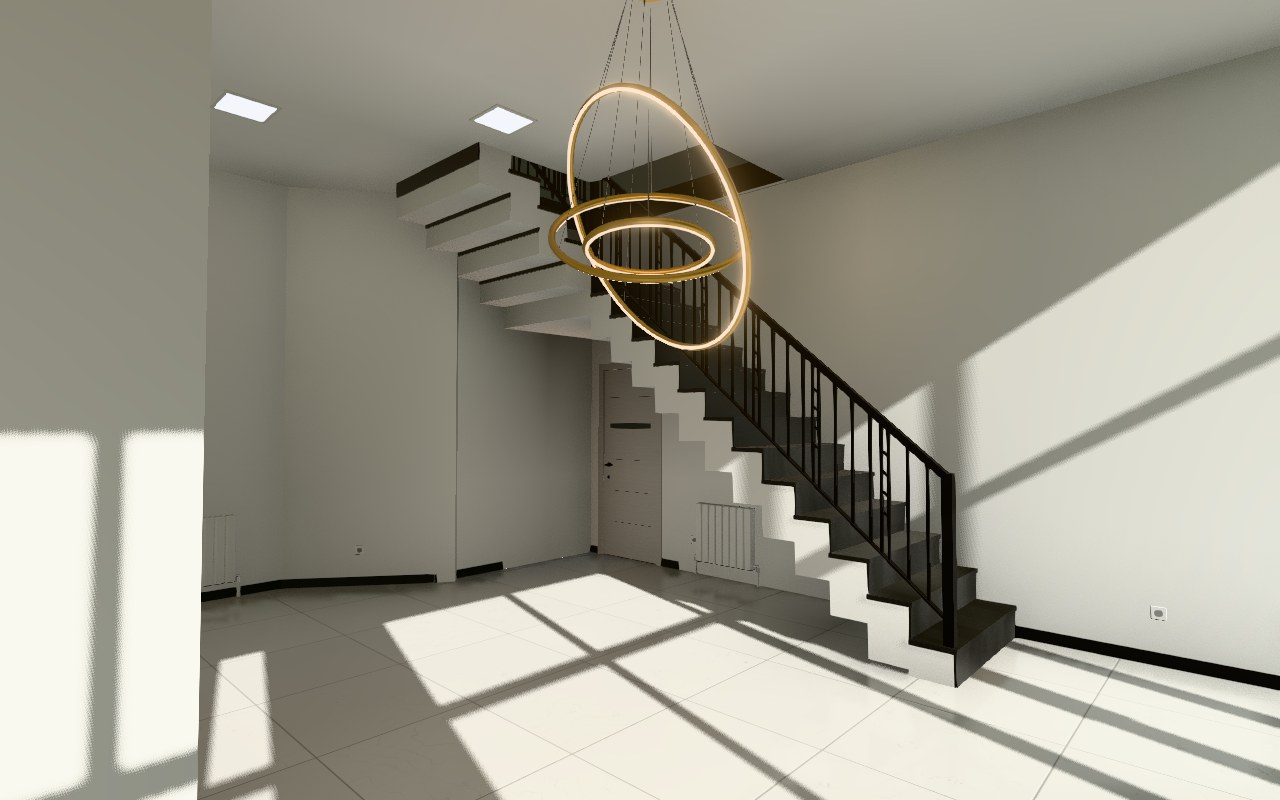
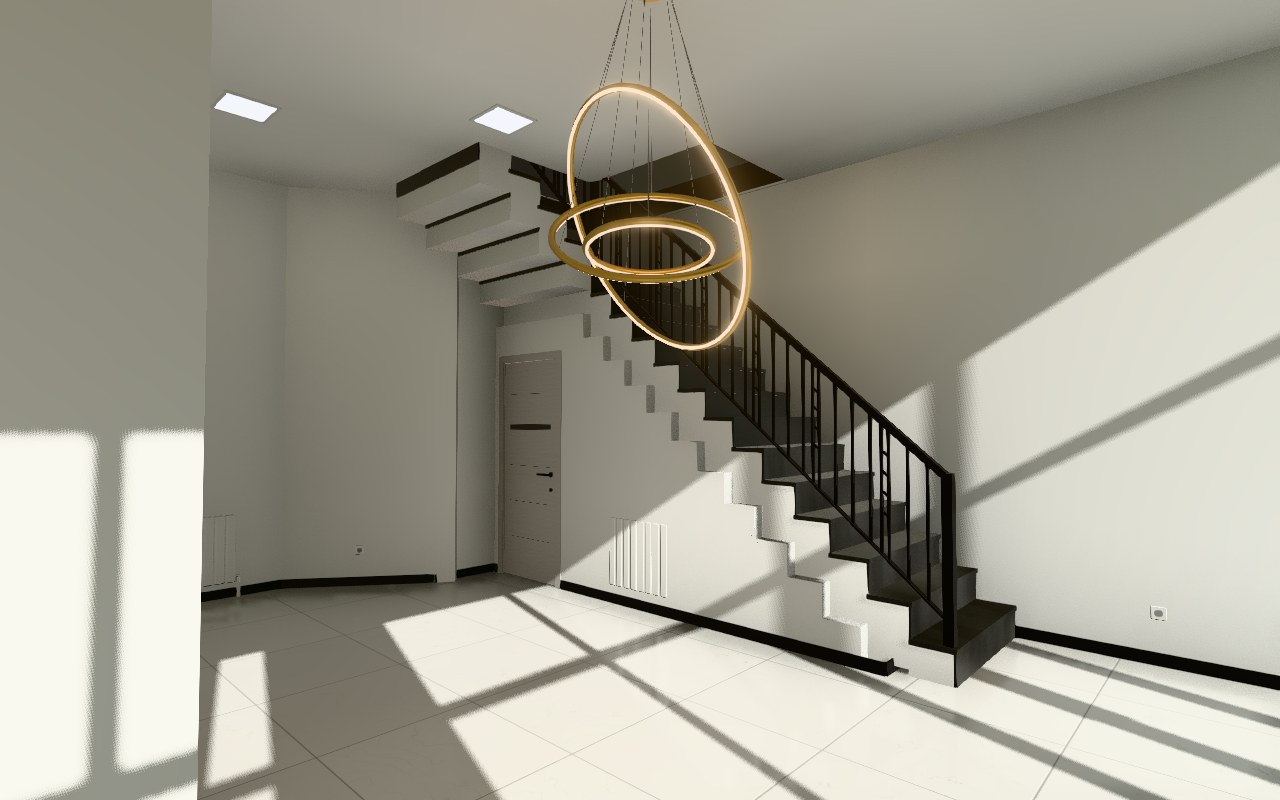
Kladovka zina tagida (bino ichida), 2-qavatda zina shaxtasi devori, eshiksiz kichik xona
- 1-qavat to'rtburchak: tashqariga chiqqan xona olib tashlandi
- Kladovka zinaning eni bo'yicha, old devori zinapoyasimon, eshik burchakda maydoncha ostida
- 2-qavat: zinaning narigi tomoni devor; zina yonida eshiksiz kichik xona

Claude-Session: https://claude.ai/code/session_01P9pQftsdzTnGheRvDppN9w

diff --git a/web/src/stair.js b/web/src/stair.js
@@ -103,16 +103,7 @@ function buildRailings( mats ) {
 	b.add( M, box( xw - 0.03, xw + 0.03, y0, y0 + HR + 0.03, zn - 0.03, zn + 0.03 ) );
 	for ( let x = xw + 0.6; x < xr; x += 0.6 ) b.add( M, box( x - 0.01, x + 0.01, y0, y0 + BR, zn - 0.01, zn + 0.01 ) );
 	panelPattern( b, M, xw + 0.06, xr - 0.06, () => y0 + BR, () => y0 + HR, ( x, a, c ) => [ V( x, a, zn ), V( x, c, zn ) ] );
-	// g'arbiy uch
-	b.add( M, box( xw - 0.0225, xw + 0.0225, y0 + HR - 0.0225, y0 + HR + 0.0225, zn, z1 ) );
-	b.add( M, box( xw - 0.02, xw + 0.02, y0 + BR - 0.006, y0 + BR + 0.006, zn, z1 ) );
-	panelPattern( b, M, zn + 0.06, z1 - 0.04, () => y0 + BR, () => y0 + HR, ( z, a, c ) => [ V( xw, a, z ), V( xw, c, z ) ] );
-	// sharqiy qirra (teshik bo'ylab, 2-qavat zalidan)
-	b.add( M, box( xe - 0.0225, xe + 0.0225, y0 + HR - 0.0225, y0 + HR + 0.0225, zTop - 0.0225, z1 ) );
-	b.add( M, box( xe - 0.02, xe + 0.02, y0 + BR - 0.006, y0 + BR + 0.006, zTop, z1 ) );
-	b.add( M, box( xe - 0.03, xe + 0.03, y0, y0 + HR + 0.03, zTop - 0.03, zTop + 0.03 ) );
-	for ( let z = zTop + 0.6; z < z1; z += 0.6 ) b.add( M, box( xe - 0.01, xe + 0.01, y0, y0 + BR, z - 0.01, z + 0.01 ) );
-	panelPattern( b, M, zTop + 0.06, z1 - 0.04, () => y0 + BR, () => y0 + HR, ( z, a, c ) => [ V( xe, a, z ), V( xe, c, z ) ] );
+	// g'arbiy uch — kichik xona devori, sharqiy qirra — zina shaxtasi devori (floor2.js)
 
 	return b.build( { name: 'railing' } );
 
@@ -151,39 +142,57 @@ function panelPattern( b, M, s0, s1, yLo, yHi, pts ) {
 
 }
 
-// Janubiy devordagi eshik (maydoncha ostida) va uning orqasidagi kichik xona
+// Zina tagidagi kladovka: old devori zina chetida (z0), yuqori qirrasi zinapoyasimon ostga mos;
+// eshik burchakda — maydoncha ostida (rasm 15).
 function buildCloset( mats ) {
 
 	const { x0, x1, z0, z1, t, door } = WC;
+	const { x0: sx0, xL, risersA, rise: r, goingA: gA, hLanding } = STAIR;
+	const SL = 0.18;
 	const b = new Batch();
-	b.add( mats.wall, box( x0 - t, x1 + 0.3, 0, FF - 0.01, z1, z1 + 0.3 ) );
-	b.add( mats.wall, box( x1, x1 + 0.3, 0, FF - 0.01, z0 + 0.3, z1 ) );
-	b.add( mats.wall, box( x0 - t, x0, 0, FF - 0.01, z0 + 0.3, z1 ) );
-	b.add( mats.ceiling, box( x0, x1, H, H + 0.05, z0 + 0.3, z1 ) );
-	b.add( mats.skirting, box( x0, x1, 0, 0.08, z1 - 0.012, z1 ) );
-	b.add( mats.skirting, box( x1 - 0.012, x1, 0, 0.08, z0 + 0.3, z1 ) );
-	b.add( mats.skirting, box( x0, x0 + 0.012, 0, 0.08, z0 + 0.3, z1 ) );
-	b.add( mats.skirting, box( x0, door.x0 - 0.07, 0, 0.08, z0 + 0.3, z0 + 0.312 ) );
-	b.add( mats.skirting, box( door.x1 + 0.07, x1, 0, 0.08, z0 + 0.3, z0 + 0.312 ) );
-	b.add( mats.ledCool, new THREE.PlaneGeometry( 0.3, 0.3 ).rotateX( Math.PI / 2 ).translate( ( x0 + x1 ) / 2, H - 0.003, ( z0 + z1 ) / 2 + 0.15 ) );
+	const landBot = hLanding - SL - r;
 
-	// ---------- Eshik (kulrang eman, qora shisha chiziq) — xonaga qaragan yuza z0 da ----------
-	const dz = z0;
+	// Old devor (z0…z0+t): pastdan zinapoya ostigacha
+	const pts = [ [ x0, 0 ], [ door.x0, 0 ], [ door.x0, door.h ], [ door.x1, door.h ], [ door.x1, 0 ], [ x1, 0 ], [ x1, landBot ], [ xL, landBot ] ];
+	for ( let i = risersA - 2; i >= 0; i -- ) {
+
+		const xw = sx0 + i * gA, xe = xw + gA;
+		if ( xe <= x0 ) break;
+		const y = Math.max( 0, i * r - SL );
+		pts.push( [ Math.min( xe, xL ), y ] );
+		pts.push( [ Math.max( xw, x0 ), y ] );
+
+	}
+
+	const shape = new THREE.Shape( pts.map( ( [ x, y ] ) => new THREE.Vector2( x, y ) ) );
+	const eg = new THREE.ExtrudeGeometry( shape, { depth: t, bevelEnabled: false } );
+	eg.translate( 0, 0, z0 - t );
+	b.add( mats.wall, eg );
+	// G'arbiy yon devor (past)
+	const iw = Math.floor( ( x0 - sx0 ) / gA );
+	b.add( mats.wall, box( x0, x0 + t, 0, Math.max( 0.3, iw * r - SL ), z0, z1 ) );
+	// Plintus
+	b.add( mats.skirting, box( x0, door.x0 - 0.07, 0, 0.08, z0 - t - 0.012, z0 - t ) );
+	b.add( mats.skirting, box( door.x1 + 0.07, x1, 0, 0.08, z0 - t - 0.012, z0 - t ) );
+	b.add( mats.skirting, box( x0 - 0.012, x0, 0, 0.08, z0 - t, z1 ) );
+
+	// ---------- Eshik (kulrang eman, qora shisha chiziq), xonaga qaragan yuzasi z0 - t ----------
+	const dz = z0 - t;
 	const lx0 = door.x0 + 0.005, lx1 = door.x1 - 0.005;
 	b.add( mats.oak, box( lx0, lx1, 0.01, door.h - 0.005, dz + 0.01, dz + 0.05 ) );
 	const aw = 0.07, at = 0.012;
 	b.add( mats.oak, box( door.x0 - aw, door.x0, 0, door.h + aw, dz - at, dz ) );
 	b.add( mats.oak, box( door.x1, door.x1 + aw, 0, door.h + aw, dz - at, dz ) );
 	b.add( mats.oak, box( door.x0 - aw, door.x1 + aw, door.h, door.h + aw, dz - at, dz ) );
-	b.add( mats.oak, box( door.x0, door.x0 + 0.005, 0, door.h, dz, z0 + 0.3 ) );
-	b.add( mats.oak, box( door.x1 - 0.005, door.x1, 0, door.h, dz, z0 + 0.3 ) );
-	b.add( mats.oak, box( door.x0, door.x1, door.h, door.h + 0.005, dz, z0 + 0.3 ) );
+	b.add( mats.oak, box( door.x0, door.x0 + 0.005, 0, door.h, dz, z0 ) );
+	b.add( mats.oak, box( door.x1 - 0.005, door.x1, 0, door.h, dz, z0 ) );
 	for ( const y of [ 0.38, 0.72, 1.06, 1.74 ] ) b.add( mats.groove, box( lx0 + 0.09, lx1 - 0.09, y, y + 0.004, dz + 0.0085, dz + 0.0105 ) );
 	b.add( mats.blackGlass, box( lx0 + 0.09, lx1 - 0.09, 1.4, 1.46, dz + 0.007, dz + 0.0105 ) );
-	const hx = lx1 - 0.075;
+	// tutqich — burchakdan uzoq tomonda (g'arb)
+	const hx = lx0 + 0.075;
 	b.add( mats.blackMetal, new THREE.CylinderGeometry( 0.026, 0.026, 0.012, 24 ).rotateX( Math.PI / 2 ).translate( hx, 1.0, dz + 0.004 ) );
 	b.add( mats.blackMetal, beam( V( hx, 1.0, dz + 0.004 ), V( hx, 1.0, dz - 0.055 ), 0.009, 0.009, true ) );
-	b.add( mats.blackMetal, box( hx - 0.13, hx, 0.99, 1.012, dz - 0.068, dz - 0.05 ) );
+	b.add( mats.blackMetal, box( hx, hx + 0.13, 0.99, 1.012, dz - 0.068, dz - 0.05 ) );
 	b.add( mats.blackMetal, new THREE.CylinderGeometry( 0.02, 0.02, 0.01, 20 ).rotateX( Math.PI / 2 ).translate( hx, 0.86, dz + 0.004 ) );
 
 	return b.build( { name: 'closet' } );

diff --git a/web/src/main.js b/web/src/main.js
@@ -47,13 +47,13 @@ const VIEWS = [
 	{ floor: 1, id: 'kirish', name: 'Kirish', pos: [ 0.8, 1.55, 5.0 ], target: [ 7.0, 1.4, 1.0 ] },
 	{ floor: 1, id: 'vitrina', name: 'Vitrina', pos: [ 6.15, 1.5, 6.6 ], target: [ 0, 1.55, 2.6 ] },
 	{ floor: 1, id: 'zina', name: 'Zina', pos: [ 0.9, 1.5, 3.6 ], target: [ 5.6, 1.7, 8.6 ] },
-	{ floor: 1, id: 'burchak', name: 'Eshik va zina', pos: [ 1.2, 1.5, 7.0 ], target: [ 6.4, 1.6, 8.0 ] },
+	{ floor: 1, id: 'burchak', name: 'Eshik va zina', pos: [ 3.2, 1.35, 4.6 ], target: [ 5.4, 2.2, 8.75 ] },
 	{ floor: 1, id: 'tepadan', name: 'Tepadan', pos: [ 1.2, 12.5, 11.0 ], target: [ 3.65, 0, 4.4 ] },
 	{ floor: 2, id: 'zal', name: 'Zal', pos: [ 13.8, 3.9 + 1.6, 7.9 ], target: [ 2.0, 3.9 + 1.2, 3.0 ] },
 	{ floor: 2, id: 'qanot', name: 'Qanot', pos: [ 19.6, 3.9 + 1.6, 11.1 ], target: [ 19.4, 3.9 + 1.45, 0.5 ] },
 	{ floor: 2, id: 'ustunlar', name: 'Ustunlar', pos: [ 22.4, 3.9 + 1.65, 1.3 ], target: [ 12.0, 3.9 + 1.0, 7.5 ] },
 	{ floor: 2, id: 'ofis', name: 'Ofis xona', pos: [ 17.4, 3.9 + 1.55, 12.1 ], target: [ 17.4, 3.9 + 1.4, 17.0 ] },
-	{ floor: 2, id: 'zina2', name: 'Zina', pos: [ 9.4, 3.9 + 1.65, 5.2 ], target: [ 5.4, 3.9 + 0.5, 7.4 ] },
+	{ floor: 2, id: 'zina2', name: 'Zina', pos: [ 5.6, 3.9 + 1.6, 1.4 ], target: [ 4.4, 3.9 + 0.7, 8.4 ] },
 	{ floor: 2, id: 'tepadan2', name: 'Tepadan', pos: [ 5.5, 3.9 + 15.5, 22.5 ], target: [ 11.7, 3.9, 8.0 ] },
 ];
 
@@ -354,8 +354,9 @@ async function main() {
 				...COLS2.map( ( c ) => [ c.x0, c.x1, c.z0, c.z1 ] ),
 				...PARTITIONS2.slice( 0, 1 ).map( ( c ) => [ c.x0, c.x1, c.z0, c.z1 ] ),
 				[ 16.0, 23.35, 11.6, 17.01 ],
-				[ 3.8, 6.6, 7.45, 8.75 ],
-				[ 5.1, 6.6, 6.3, 7.6 ],
+				[ 3.8, 6.8, 7.45, 8.75 ],
+				[ 5.1, 6.8, 6.3, 7.6 ],
+				[ 1.9, 3.9, 6.5, 8.75 ],
 				[ 0, 1.4, 1.78, 3.8 ],
 			],
 		},

diff --git a/web/src/floor2.js b/web/src/floor2.js
@@ -119,7 +119,8 @@ export function buildFloor2( mats, m2 ) {
 	const skz = ( z, x0, x1, side ) => w.add( S, box( x0, x1, Y2, Y2 + SK_H, z, z + side * SK_T ) );
 	skx( 23.35, 1.0, 3.57, - 1 ); skx( 23.35, 4.56, 9.0, - 1 ); skx( 23.35, 9.95, 11.6, - 1 );
 	skx( 23.35, 11.72, 14.95, - 1 ); skx( 23.35, 15.94, 16.45, - 1 );
-	skz( 8.75, 0, OPENING.x0 - 0.05, - 1 ); skz( 8.75, OPENING.x1 + 0.05, 15.375, - 1 );
+	skz( 8.75, 0, 1.9, - 1 ); skz( 8.75, 6.8, 15.375, - 1 ); skx( 6.8, 6.4, 8.75, 1 ); skz( 6.5, 1.9, 2.38, - 1 ); skz( 6.5, 3.42, 3.9, - 1 ); skz( 6.4, 6.5, 6.8, - 1 );
+	skz( 8.75, 2.02, 3.78, - 1 ); skx( 2.02, 6.62, 8.75, 1 ); skx( 3.78, 6.62, 8.75, - 1 );
 	skx( 0, 4.18, 5.6, 1 ); skx( 0.75, 3.8, 3.68, 1 );
 	skx( 0, 4.18, 8.75, 1 ); skx( 1.4, 1.9, 2.35, 1 ); skx( 1.4, 3.25, 3.8, 1 );
 	skx( 15.375, 4.56, 8.75, - 1 ); skx( 15.55, 4.56, 8.75, 1 );
@@ -245,6 +246,22 @@ export function buildFloor2( mats, m2 ) {
 function addDoor( b, m2, d ) {
 
 	const zc = ( d.z0 + d.z1 ) / 2;
+	if ( d.type === 'open' ) {
+
+		// eshiksiz o'tish joyi — faqat oq ramka
+		for ( const side of [ - 1, 1 ] ) {
+
+			const zf = side < 0 ? d.z0 : d.z1, t = side * 0.012;
+			b.add( m2.pvc, box( d.x0 - 0.06, d.x0, Y2, Y2 + DOOR_H + 0.06, zf, zf + t ) );
+			b.add( m2.pvc, box( d.x1, d.x1 + 0.06, Y2, Y2 + DOOR_H + 0.06, zf, zf + t ) );
+			b.add( m2.pvc, box( d.x0 - 0.06, d.x1 + 0.06, Y2 + DOOR_H, Y2 + DOOR_H + 0.06, zf, zf + t ) );
+
+		}
+
+		return;
+
+	}
+
 	const lx0 = d.x0 + 0.005, lx1 = d.x1 - 0.005;
 	const leafMat = d.type === 'pvc' || d.type === 'white' ? m2.pvc : m2.metalDoor;
 	b.add( leafMat, box( lx0, lx1, Y2 + 0.01, Y2 + DOOR_H - 0.005, zc - 0.025, zc + 0.025 ) );

diff --git a/web/src/building.js b/web/src/building.js
@@ -11,7 +11,7 @@ export function buildShell( mats ) {
 	root.name = 'shell';
 
 	// ---------- Pol ----------
-	const fpts = [ [ - 0.12, - 0.12 ], [ 7.3, - 0.12 ], [ 7.3, 5.76 ], [ 6.5, 6.8 ], [ 6.5, 8.75 ], [ WC.x1, 8.75 ], [ WC.x1, WC.z1 ], [ WC.x0, WC.z1 ], [ WC.x0, 8.75 ], [ - 0.12, 8.75 ] ];
+	const fpts = [ [ - 0.12, - 0.12 ], [ 7.3, - 0.12 ], [ 7.3, 5.76 ], [ 6.5, 6.8 ], [ 6.5, 8.75 ], [ - 0.12, 8.75 ] ];
 	const fshape = new THREE.Shape( fpts.map( ( [ x, z ] ) => new THREE.Vector2( x, - z ) ) );
 	const fgeo = new THREE.ShapeGeometry( fshape );
 	fgeo.rotateX( - Math.PI / 2 );
@@ -44,10 +44,7 @@ export function buildShell( mats ) {
 	}
 
 	solid.add( W, box( 6.5, 6.5 + WALL_T, 0, top, 6.8, 8.75 + WALL_T ) );
-	// Janubiy devor — kichik xona eshigi o'rni bilan (WC.door)
-	solid.add( W, box( - WALL_T, WC.door.x0, 0, top, 8.75, 8.75 + WALL_T ) );
-	solid.add( W, box( WC.door.x0, WC.door.x1, WC.door.h, top, 8.75, 8.75 + WALL_T ) );
-	solid.add( W, box( WC.door.x1, 6.5 + WALL_T, 0, top, 8.75, 8.75 + WALL_T ) );
+	solid.add( W, box( - WALL_T, 6.5 + WALL_T, 0, top, 8.75, 8.75 + WALL_T ) );
 
 	for ( const c of COLUMNS ) solid.add( W, box( c.x0, c.x1, 0, H, c.z0, c.z1 ) );
 
@@ -61,7 +58,7 @@ export function buildShell( mats ) {
 	const skZ = ( z, x0, x1, side ) => solid.add( S, box( x0, x1, 0, SK_H, z, z + side * SK_T ) );
 	skX( 7.3, 0, 5.76, - 1 );
 	skX( 6.5, 6.8, 7.55, - 1 );
-	skZ( 8.75, 0, STAIR.x0, - 1 ); skZ( 8.75, STAIR.xL, WC.door.x0 - 0.07, - 1 ); skZ( 8.75, WC.door.x1 + 0.07, 6.5, - 1 );
+	skZ( 8.75, 0, WC.x0, - 1 );
 	{
 
 		// qiya burchak plintusi

diff --git a/web/src/plan2.js b/web/src/plan2.js
@@ -58,6 +58,12 @@ export const NOOK2 = { x0: 0, x1: 1.4, z0: 1.9, z1: 3.68, open: [ 2.35, 3.25 ] }
 
 // Ichki devorlar: [x0, x1, z0, z1] (balandligi to'liq)
 export const PARTITIONS2 = [
+	// Zina yonidagi kichik xona (eshiksiz, ochiq o'tish joyi) — rasm 14
+	{ x0: 1.9, x1: 3.9, z0: 6.5, z1: 6.62, doors: [ [ 2.45, 3.35, 'open' ] ] },
+	{ x0: 1.9, x1: 2.02, z0: 6.62, z1: 8.75 },
+	{ x0: 3.78, x1: 3.9, z0: 6.62, z1: 8.75 }, // = zina teshigining g'arbiy devori
+	// Zina shaxtasining narigi (sharqiy) devori — 2-qavat shu devordan boshlanadi
+	{ x0: 6.5, x1: 6.8, z0: 6.4, z1: 8.75 },
 	{ x0: 0, x1: 1.4, z0: 1.78, z1: 1.9 }, // tambur shimoliy devori
 	{ x0: 0.75, x1: 1.4, z0: 3.68, z1: 3.8 }, // tambur janubiy devori (ustungacha)
 	{ x0: 15.375, x1: 15.55, z0: 4.56, z1: 8.75 }, // chap blok va o'ng qanot orasidagi devor
@@ -94,7 +100,7 @@ export const PANELS2 = ( () => {
 
 			const x = xa + ( i + 0.5 ) * ( xb - xa ) / nx;
 			const z = za + ( k + 0.5 ) * ( zb - za ) / nz;
-			if ( x > 3.6 && x < 6.8 && z > 6.1 ) continue; // zina teshigi ustida emas
+			if ( x > 1.7 && x < 7.0 && z > 6.1 ) continue; // zina teshigi va kichik xona ustida emas
 			if ( x < 1.5 && z > 1.7 && z < 3.9 ) continue; // tambur
 			out.push( [ x, z ] );
 

diff --git a/web/src/plan.js b/web/src/plan.js
@@ -60,8 +60,9 @@ export const OPENING = {
 	poly: [ [ 5.2, 6.4 ], [ 6.5, 6.4 ], [ 6.5, 8.75 ], [ 3.9, 8.75 ], [ 3.9, 7.55 ], [ 5.2, 7.55 ] ],
 };
 
-// Burchakdagi eshik (janubiy devorda, maydoncha ostida) va uning orqasidagi kichik xona
-export const WC = { x0: 4.4, x1: 6.5, z0: 8.75, z1: 10.75, t: 0.1, door: { x0: 5.5, x1: 6.3, h: 2.05 } };
+// Zina tagidagi kladovka: zinaning eni bo'yicha (z 7.55…8.75), bino ichida. Old devori zina bo'ylab,
+// eshik shu devorning burchagida (maydoncha ostida). Rasm 15.
+export const WC = { x0: 2.55, x1: 6.5, z0: 7.55, z1: 8.75, t: 0.1, door: { x0: 5.55, x1: 6.35, h: 2.05 } };
 
 // Qandillar
 export const CHANDELIERS = [
@@ -79,7 +80,7 @@ export const PANELS = [
 
 // Radiatorlar: markaz, devor normali yo'nalishi (xonaga), seksiyalar soni
 export const RADIATORS = [
-	{ x: 4.6, z: 8.75, nx: 0, nz: - 1, n: 8 },
+	{ x: 4.55, z: 7.55, nx: 0, nz: - 1, n: 8 },
 	{ x: 7.3, z: 2.2, nx: - 1, nz: 0, n: 10 },
 	{ x: 7.3, z: 5.05, nx: - 1, nz: 0, n: 8 },
 ];

diff --git a/web/src/walk.js b/web/src/walk.js
@@ -21,7 +21,7 @@ export class WalkControls {
 			poly: ROOM, eye: EYE, start: [ 2.2, 6.2 ],
 			blockers: [
 				...COLUMNS.map( ( c ) => [ c.x0, c.x1, c.z0, c.z1 ] ),
-				[ STAIR.x0 - 0.05, STAIR.xE, STAIR.zTop - 0.15, 8.75 ],
+				[ STAIR.x0 - 0.05, STAIR.xE, STAIR.z0 - 0.15, 8.75 ],
 				[ WC.x0, WC.x1, WC.z0, WC.z1 ],
 			],
 		};

diff --git a/docs/TZ-1-qavat.md b/docs/TZ-1-qavat.md
@@ -90,6 +90,6 @@ Diagnostika uchun URL parametrlari: `?q=low` (kuchsiz GPU), `?view=zina`, `?exp=
 1. **Shift balandligi 3.60 m.** Rasmdagi fasad eshiklari va 3.15 m oraliq nisbatidan baholandi.
 2. **O'ng (sharqiy) devor va qiya burchak — g'isht devor.** Rejada uch chiziq bilan (oyna kabi) chizilgan, lekin rasmlarda oq devor va radiatorlar ko'rinadi. Shuning uchun devor qilindi; `plan.js` dan oynaga o'zgartirish oson.
 3. **Fasadda 2 ta eshik.** Rejada faqat pastki eshik bor, rasmda esa ikkala oraliqda ham eshik ko'rinadi.
-4. **Zina (v3, rasmlar 10…14 asosida):** L shakl. Kiraverish (g'arb) tomondan boshlanib janubiy devor bo'ylab sharqqa ko'tariladi (x 2.20 → 5.20, 13 ko'tarilish), sharq uchida maydoncha (5.20…6.50 m), so'ng chapga (shimolga) burilib 5 pog'ona bilan 2-qavatga chiqadi (z 7.55 → 6.40). Marsh osti ochiq: devorda radiator, burchakda (maydoncha ostida) eshik x 5.50…6.30, orqasida kichik xona (4.40…6.50 × 8.75…10.75 m). Eski izoh: bitta to'g'ri marsh, janubiy devor bo'ylab **sharqdan g'arbga** ko'tariladi (6.30 m dan 2.60 m gacha), 2-qavatga kichik xona ro'parasida chiqadi. Bu 2-qavatning haqiqiy rasmlaridan aniqlandi; 1-qavat rasmlari taxminiy edi. Zinaning yuqori uchi ostida kichik omborxona bor (x 2.37…4.10), eshigi shimolga qaragan.
+4. **Zina (v3, rasmlar 10…14 asosida):** L shakl. Kiraverish (g'arb) tomondan boshlanib janubiy devor bo'ylab sharqqa ko'tariladi (x 2.20 → 5.20, 13 ko'tarilish), sharq uchida maydoncha (5.20…6.50 m), so'ng chapga (shimolga) burilib 5 pog'ona bilan 2-qavatga chiqadi (z 7.55 → 6.40). Zina tagida, zinaning eni bo'yicha kladovka (x 2.55…6.50, z 7.55…8.75): old devori zina chetida, yuqori qirrasi zinapoyasimon; eshik burchakda, maydoncha ostida (x 5.55…6.35); radiator shu devorda. 1-qavat to'rtburchak, tashqariga chiqqan joy yo'q. Eski izoh: bitta to'g'ri marsh, janubiy devor bo'ylab **sharqdan g'arbga** ko'tariladi (6.30 m dan 2.60 m gacha), 2-qavatga kichik xona ro'parasida chiqadi. Bu 2-qavatning haqiqiy rasmlaridan aniqlandi; 1-qavat rasmlari taxminiy edi. Zinaning yuqori uchi ostida kichik omborxona bor (x 2.37…4.10), eshigi shimolga qaragan.
 5. Plitka o'lchami 80×80 sm (rasmda 60×120 ham bo'lishi mumkin).
 6. Oyna tashqarisidagi manzara — vaqtinchalik HDRI. Haqiqiy ko'cha surati bo'lsa, almashtiriladi.

diff --git a/docs/TZ-2-qavat.md b/docs/TZ-2-qavat.md
@@ -85,3 +85,7 @@
 6. 2-qavatdan yuqoriga zina bormi? Hojatxona, xonalar va to'siqlar bormi?
 7. Har bir rasm rejaning qaysi qismidan va qaysi tomonga qarab olingan? Buni keyingi rasmlar bilan birga aniqlayman.
 8. Ofis xonalar o'ng qanotning janubiy uchiga joylashtirildi. Haqiqatda boshqa joyda bo'lsa, ayting.
+
+## 8. Zina atrofi (v3, izoh-rasm 14)
+- Zina shaxtasining sharqiy tomoni devor (x 6.50…6.80): 2-qavat zinadan chiqqach shu devordan boshlanadi, narigi tomonda ochiq joy yo'q.
+- Zina yonida (g'arbda) eshiksiz kichik xona: x 1.9…3.9, z 6.5…8.75, shimol tomonida ochiq o'tish joyi.
